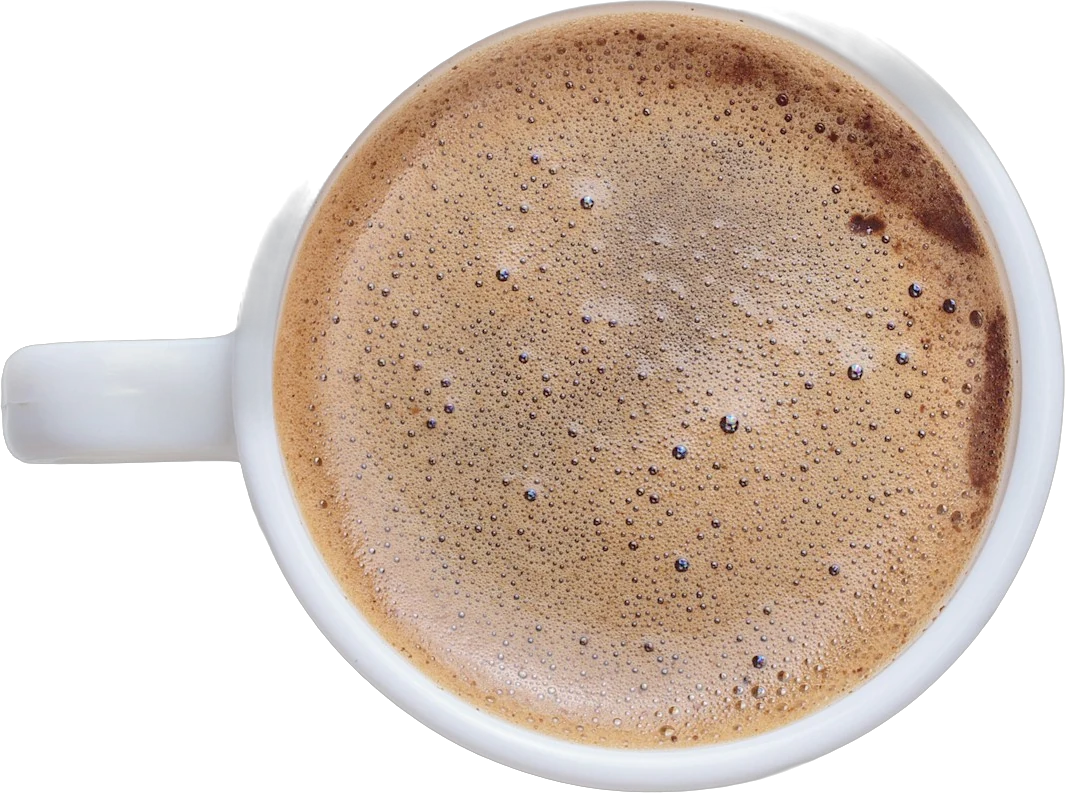
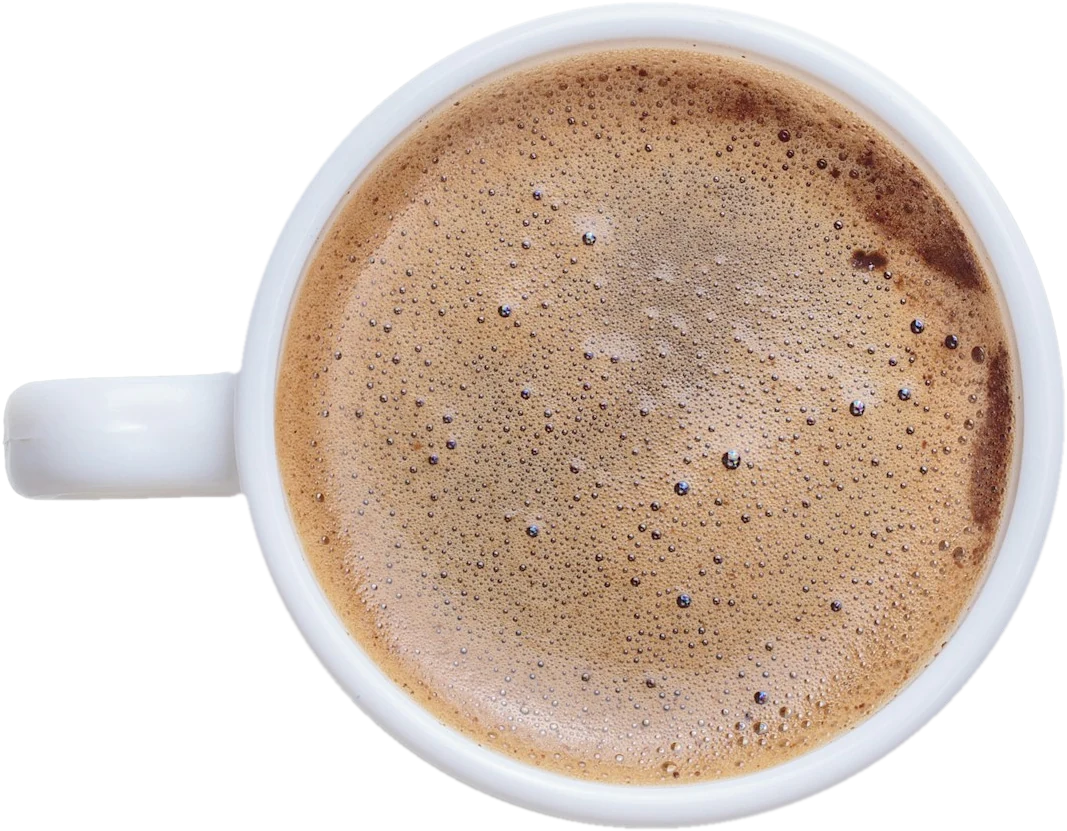
Fix cutouts (whole saucers/mugs) and remove repeated cup on mobile hero
Rebuilt latte-leaf, espresso and latte-heart with hole-filling plus circle
fitting so white-on-white saucers and rims are complete. On phones the hero
now shows croissant + macarons so the first menu scene isn't a second cup.

diff --git a/style.css b/style.css
@@ -292,9 +292,10 @@ body.loading{overflow:hidden;height:100svh}
   .carte-grid,.visit-grid{grid-template-columns:1fr}
   .hero{padding-top:92px;padding-bottom:150px}
   .hero-sub,.hero-cta{display:none}  /* the bottom bar already has Reserve */
-  .hero-stage .item:nth-child(1){left:78%!important;top:82%!important;width:50%!important}
-  .hero-stage .item:nth-child(2){left:20%!important;top:87%!important;width:46%!important}
-  .hero-stage .item:nth-child(3){display:none}
+  /* no cup in the phone hero: the first menu scene is a cup, and the same mug twice in a row looked repetitive */
+  .hero-stage .item:nth-child(1){display:none}
+  .hero-stage .item:nth-child(2){left:26%!important;top:85%!important;width:58%!important}
+  .hero-stage .item:nth-child(3){left:83%!important;top:80%!important;width:27%!important}
 }
 @media (prefers-reduced-motion:reduce){
   html{scroll-behavior:auto}.cue i,.ld-cup img,.ld-orbit{animation:none}
